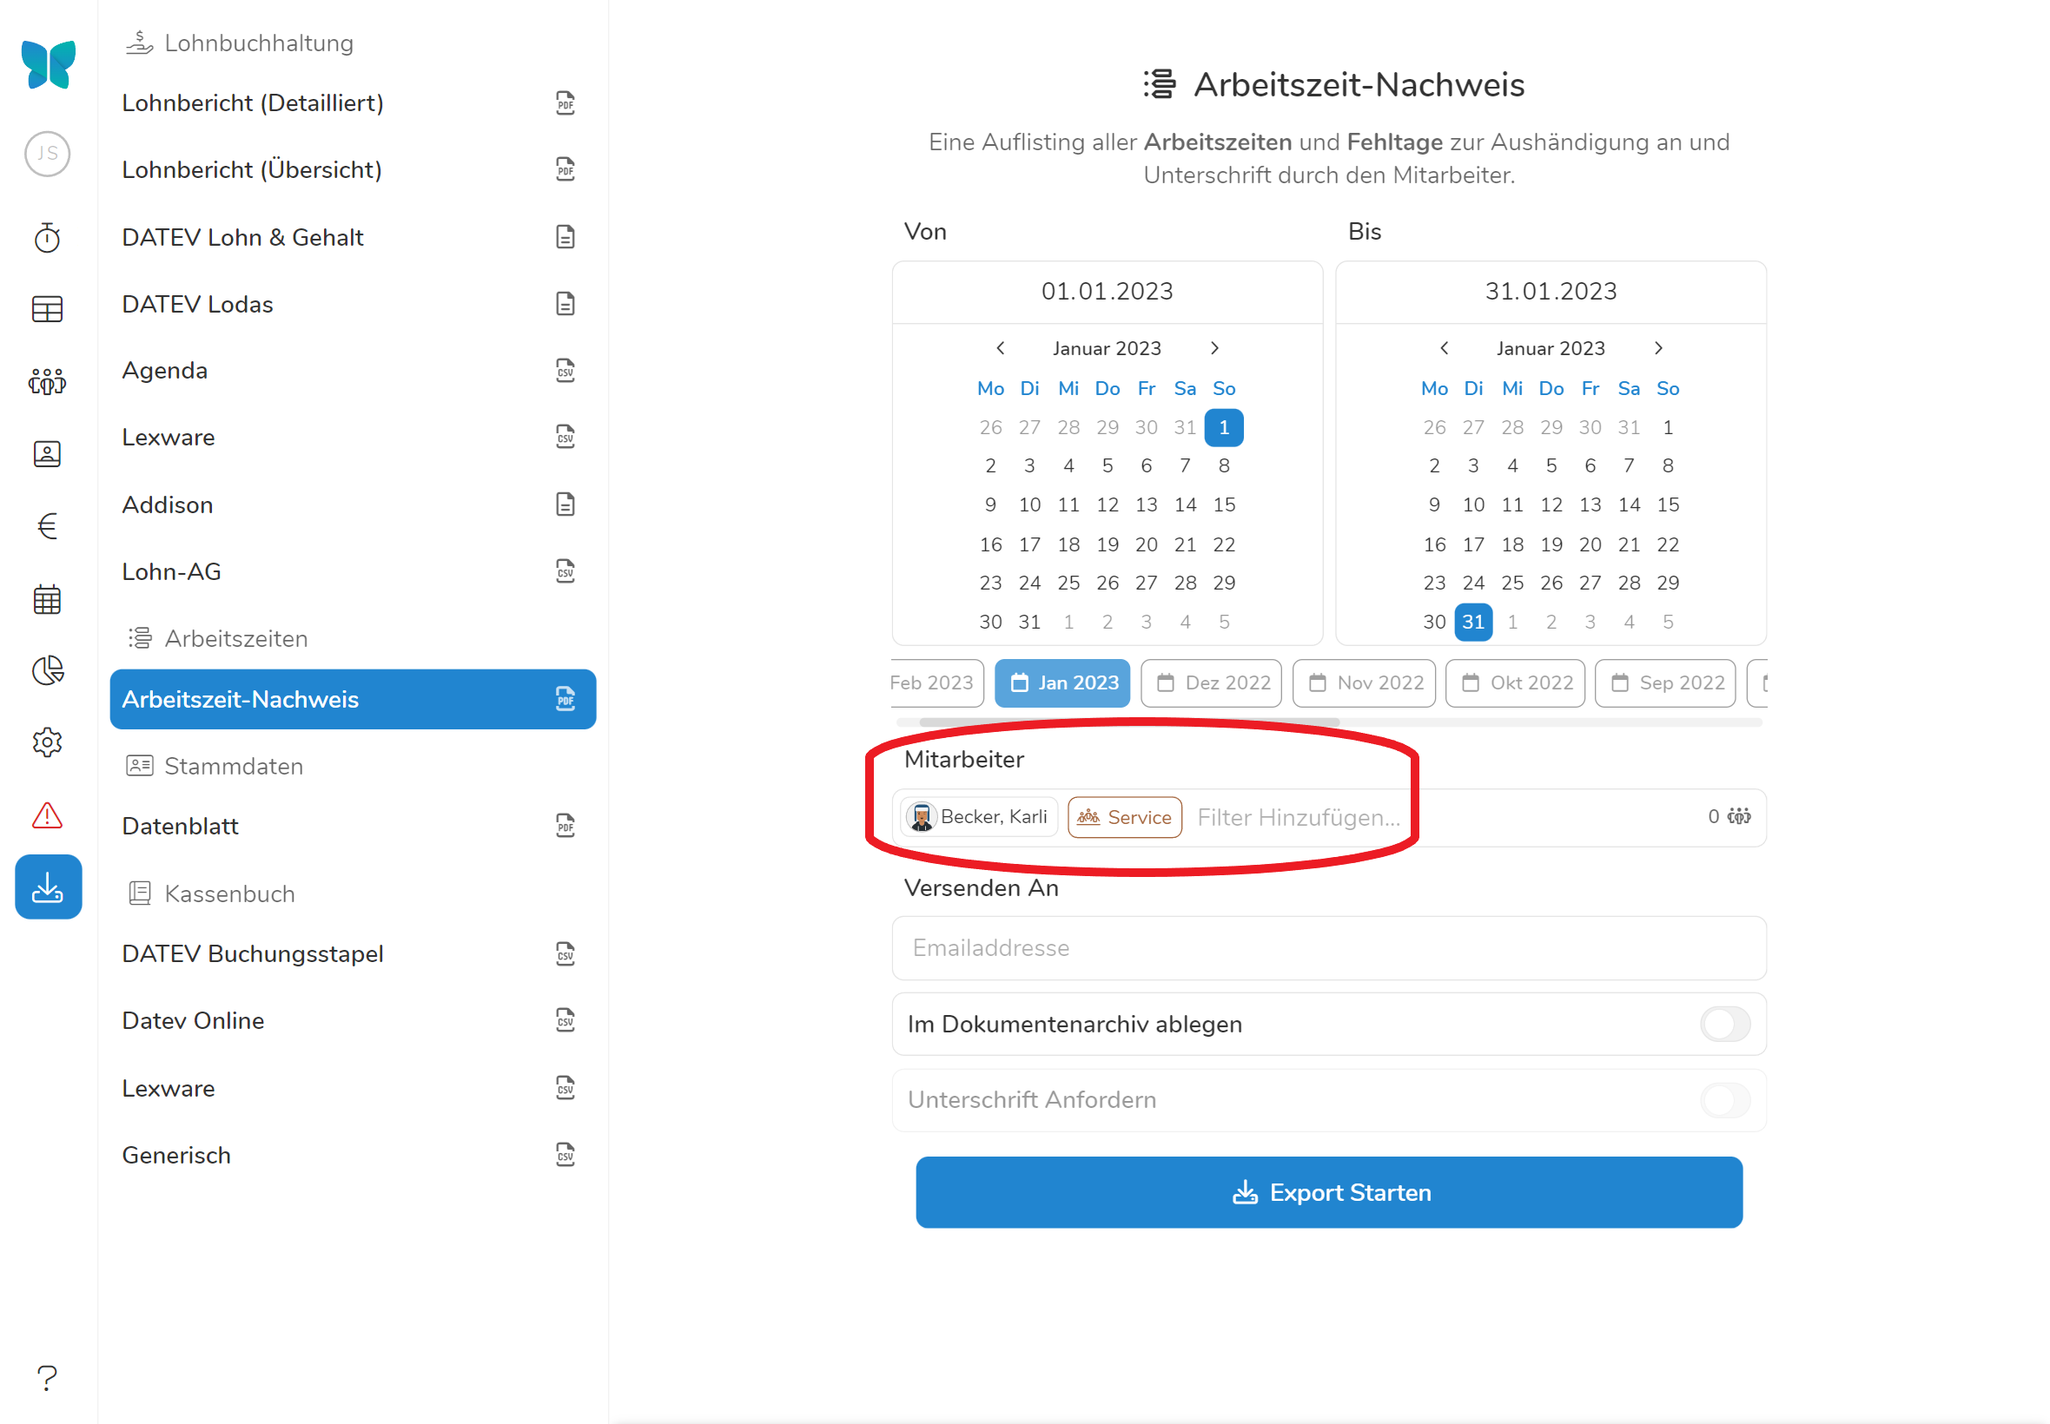
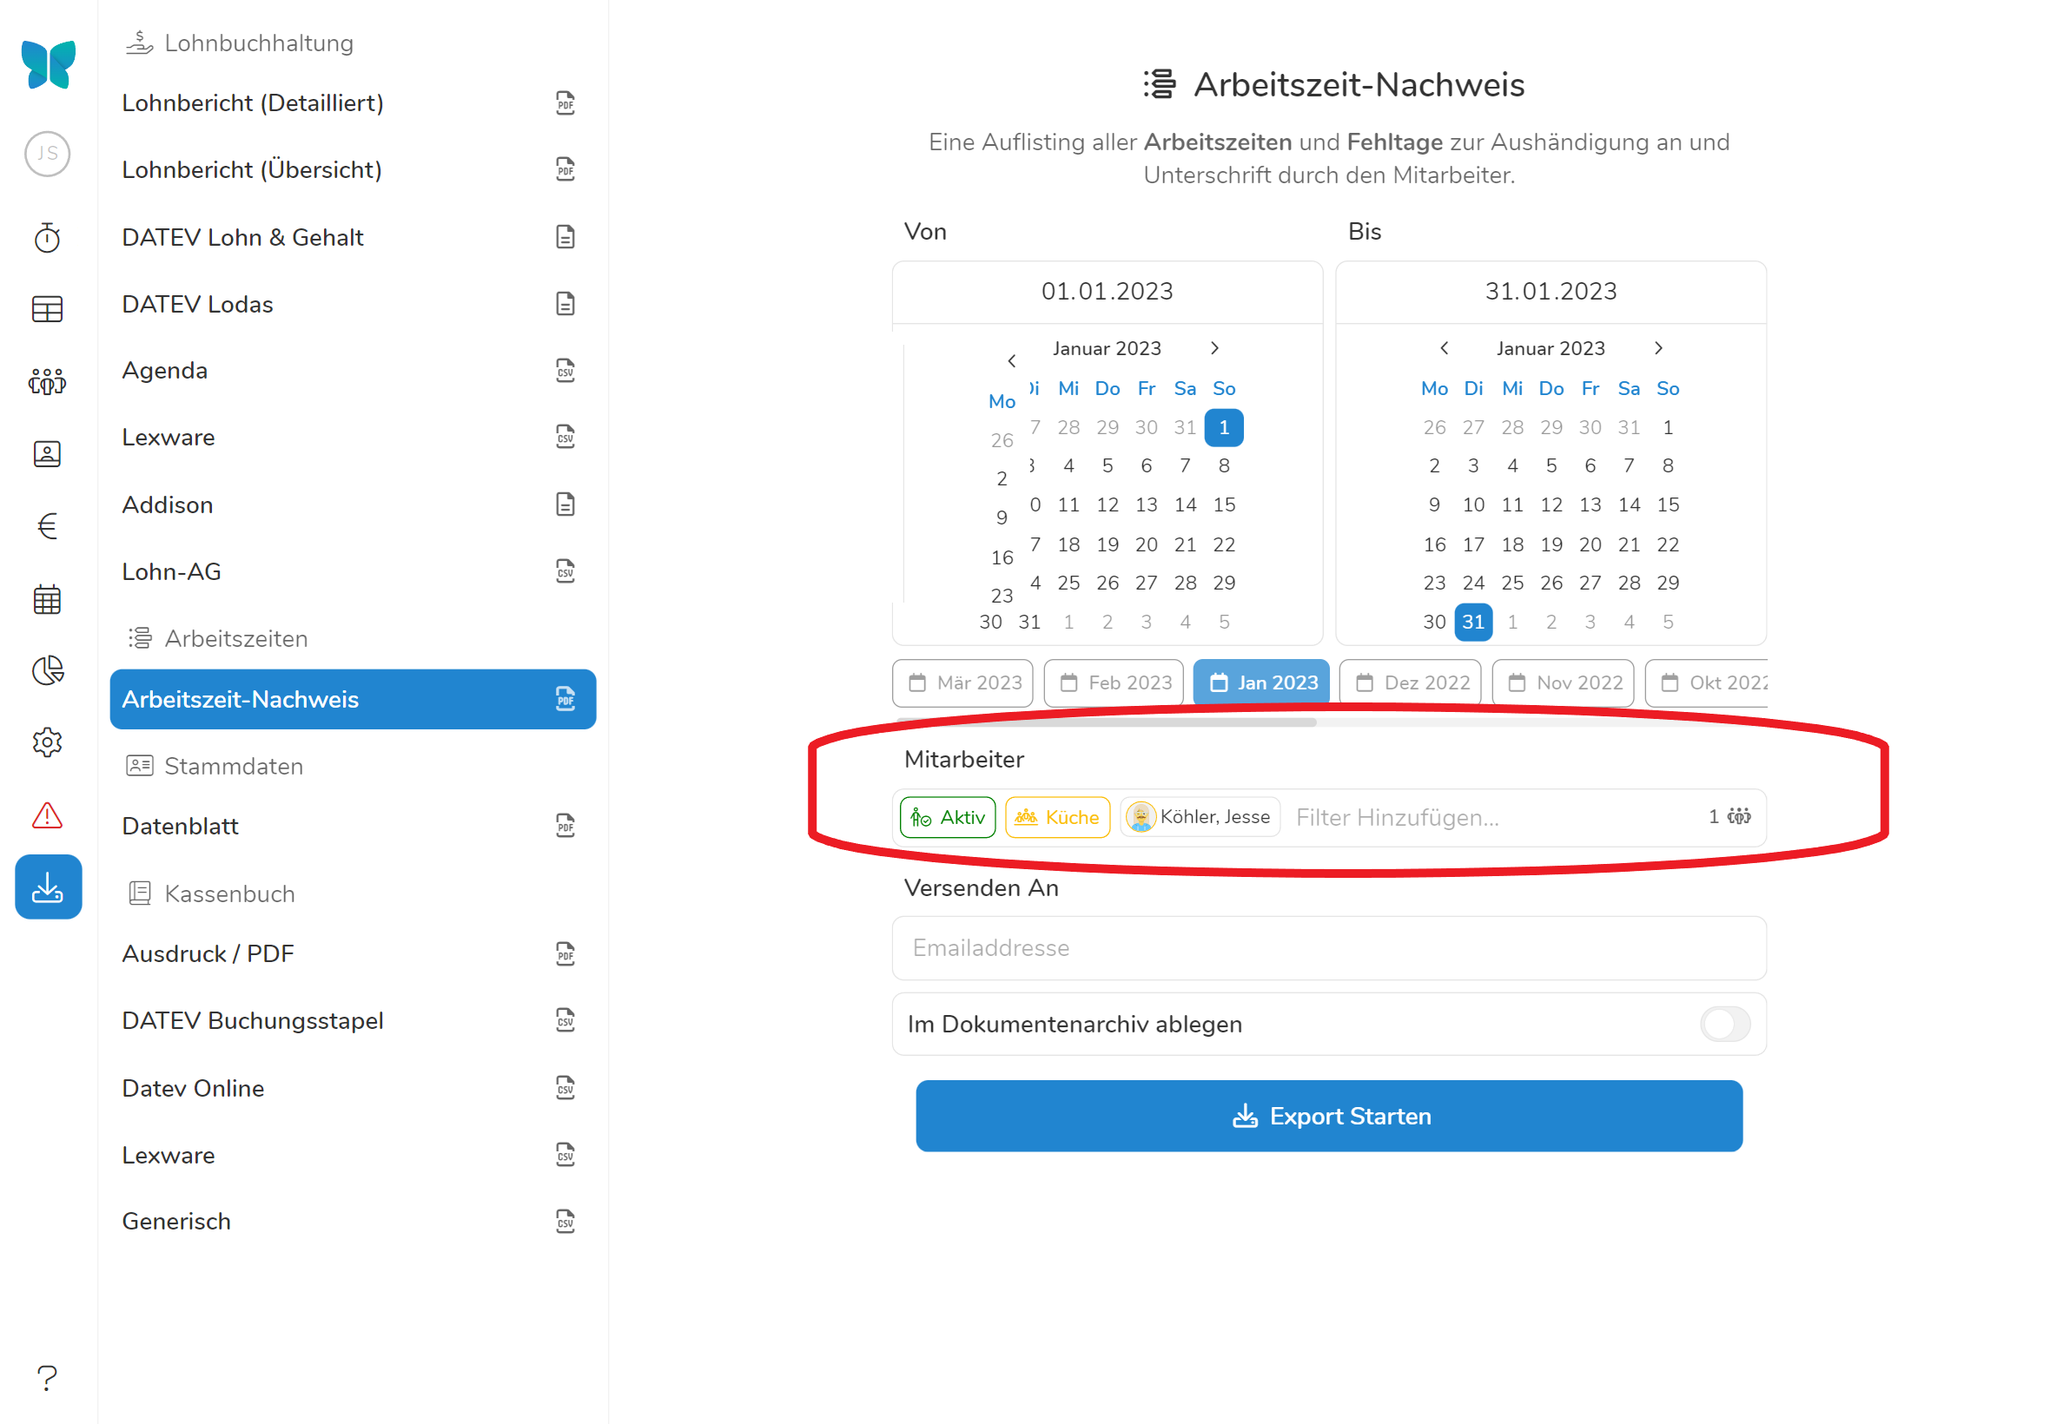
Überarbeitet

diff --git a/hilfe/handbuch/datenexport/index.md b/hilfe/handbuch/datenexport/index.md
@@ -2,51 +2,110 @@
 layout: layouts/hilfe/single.njk
 title: Datenexport
 icon: download
+weigth: 10
 ---
 
-Unter dem Menüpunkt {% button label="Datenexport", icon="download" %} sind alle in Pentacode verfügbaren Datenexporte an einem Ort zusammengefasst. Hier finden Sie verschiede Optionen zum Export von Arbeitszeiten, Lohnberichten und mehr. Dabei geben Ihnen verschiedene Icons neben den Exportfunktionen Auskunft darüber in welchem Format der Export stattfindet:
+Unter dem Menüpunkt {% button label="Datenexport", icon="download" %} sind alle in Pentacode verfügbaren Datenexporte an einem Ort zusammengefasst. Hier finden Sie verschiede Optionen zum Export von Arbeitszeiten, Lohnberichten und mehr.
+
+> **In den verschiedenen Bereichen von Pentacode finden Sie öfters das {%icon "download"%}-Symbol, dieses verweist Sie stets in den hier beschriebenen Reiter.**
+
+## Exportformat
+
+Sie können über den {% button label="Datenexport", icon="download" %}-Reiter verschiedene Dateien mit unterschiedlichen Inhalten exportieren. Je nach Inhalt und Zweck werden die Dateien dabei in unterschiedlichem Dateienformat exportiert, die verschiedenen Icons neben der Exportfunktion geben dabei Auskunft über das Format:
 
 - {% icon "file-pdf" %} Der Export findet in ein PDF-Format statt.
 - {% icon "file-text" %} Der Export findet als Textdatei statt, die extern eingelesen werden muss.
 - {% icon "file-csv" %} Der Export findet in ein CSV-Format statt. 
 
-> In den verschiedenen Bereichen von Pentacode finden Sie öfters das {%icon "download"%}**-Symbol**, dieses verweist Sie stets in den hier beschriebenen Reiter.
-
 ## Lohnbuchhaltung
 
-Hier finden Sie alle Exportoptionen, die der Lohnvorbereitung und -dokumentation dienen.  
+Hier finden Sie alle Exportoptionen, die der Lohnvorbereitung und -dokumentation dienen. Die verschiedenen Optionen umfassen dabei: 
 
-### Lohnbericht Übersicht
+- *Lohnbericht (Übersicht):* In der Lohnbericht-Übersicht sind die Arbeitsstunden und -tage, sowie Zuschlagsstunden, Mitarbeiteressen und das aktuelle Gehalt in einer tabellarischen Ansicht zusammengefasst. Dieser Ausdruck ist vor allem für die Übermittlung an Ihr Lohnbüro gut geeignet und dient als Alternative zum direkten Export/Import in Ihr Lohnbuchhaltungs-Programm.
 
-In der Lohnbericht-Übersicht sind die Arbeitsstunden und -tage, sowie Zuschlagsstunden, Mitarbeiteressen und das aktuelle Gehalt in einer tabellarischen Ansicht zusammengefasst. Dieser Ausdruck ist vor allem für die Übermittlung an Ihr Lohnbüro gut geeignet und dient als Alternative zum direkten Export/Import in Ihr Lohnbuchhaltungs-Programm.
-Wählen Sie dazu unter **Lohnbericht (Übersicht)** den gewünschten Zeitraum aus. Unter **Mitarbeiter** können Sie nun auswählen für wen Sie die Lohnberichtübersicht erstellen wollen - dabei können Sie ganze Abteilungen oder einzelne Mitarbeiter auswählen. Wählen Sie eine **Abteilung und einen Mitarbeiter, werden Ihnen nur die Lohndaten der Schichten des Mitarbeiters in dieser Abteilung angezeigt**.
+- *Lohnabrechnung (Detailliert):* Die detaillierte Lohnübersicht fasst die Inhalte des Lohnberichts mit allen Arbeits- und Abwesenheitszeiten, sowie Änderungen am Vertrag sowie dem Arbeitszeitkonto zusammen. **So haben Sie in einem Dokument alle relevanten Lohn- und Bewegungsdaten zusammengefasst!**
 
-{% figure caption="Hier Exportieren wir die Lohnberichte aller aktiven Servicekräfte - die Nummer neben den Abteilung zeigt Ihnen die Anzahl der erfassten Mitarbeiter." %}
+- *Export in Buchhaltungsprogramme:* Neben den Berichten in PDF-Form können Sie lohnabrechnungsrelevante Bewegungsdaten auch in verschiedene Lohnbuchhaltungsprogramme exportieren. 
+Aktuell unterstützte Formate sind:
+    - Agenda
+    - Datev Lodas
+    - Datev Lohn & Gehalt
+    - Addison
+    - Lexware
+    - LohnAG
+
+## Arbeitszeitennachweis
+
+Unter {% button label="**Arbeitszeiten-Nachweis**" %} werden alle geleisteten Schichten für die [ausgewählten Mitarbeiter](#mitarbeiterfilter) im [ausgewählten Zeitraum](#zeitraum) mit Pausen und Gesamtdauer, sowie der Stand des Arbeitszeitkontos aufgeführt. Der Arbeitszeitennachweis ist besonders dafür sinnvoll, die Arbeitszeiten durch den Mitarbeiter [gegenzeichnen zu lassen](#unterschrift-anfordern) um Dokumentationsfehler frühzeitig aufzudecken und im Falle einer Prüfung die Bewegungsdaten der Mitarbeiter vorlegen zu können. 
+
+## Stammdatenblatt
+
+Unter {% button label="**Datenblatt**" %} werden alle unter [Stammdaten](/hilfe/handbuch/mitarbeiter/stammdaten/) aufgeführten Daten des Mitarbeiters auf einer übersichtlichen PDF-Seite aufgeführt. 
+Die kann nützlich sein um Mitarbeiterdaten zu übertragen - **achten Sie dabei aber immer darauf, dass es sich hierbei um sensible Daten handelt!**
+
+## Kassenbuch
+
+Auf die gleiche Art und Weise wie die Lohn- und Mitarbeiterdaten können Sie auch die Inhalte des Kassenbuchs übertragen. Dies dient dem einfachen Export des in Pentacodes geführten Kassenbuch in die Lohnbuchhaltungssoftware ihrer Wahl. Die verschiedenen Formate, die Ihnen zur Verfügung stehen umfassen neben einem einfachen Ausdruck als PDF:
+
+- DATEV Buchungsstapel
+- DATEV online
+- Lexware
+- Generisch (Alle Kasssenbucheinträge als standardmäßige CSV-Datei für den Import in verschiedene Programme)
+
+## Exportoptionen
+
+Nachdem Sie [das gewünschte Exportformat](#exportformat) ausgewählt haben, können Sie durch weitere Optionen den Export personalisieren. 
+
+## Zeitraum
+
+Im vorgegebenen Kalender können Sie auf der linken Seite das Anfangsdatum und auf der rechten Seite das Enddatum des Zeitraums auswählen, für den die Dateien exportiert werden sollen. Sollten Sie einen Export für **einen ganzen Monat** erstellen wollen, können Sie diesen aus der Liste vergangener Monate unter dem Kalender auswählen. 
+
+{% figure caption="Wollen Sie den Lohnbericht für den ganzen Februar erstellen oder doch nur für eine Woche? Wählen Sie den gewünschten Zeitraum einfach aus." %}
+<img src="zeitraum.gif" />
+{% endfigure %}
+
+## Mitarbeiterfilter
+
+Im Mitarbeiterfilter können wir auswählen für welche Mitarbeitergruppen wir einen Export erstellen wollen. Dazu können wir über die Filterleiste die gewünschten Mitarbeiter über Abteilungen oder einzeln auswählen. Dabei ist zu beachten, dass Filteroptionen sich **untereinander weiter beschränken.**
+
+Hierzu ein Beispiel: Wir wählen im Filter die Vertragsart 'Festangestellt' und die Abteilung 'Küche' aus. Nun werden nur die Mitarbeiter ausgewählt, die **sowohl festangestellt, als auch in der Küche tätig sind.** Wählen wir nun zusätzlich die Abteilung 'Service', werden alle Festangestellten angezeigt, welche in **Küche, Service oder in beiden Abteilungen tätig sind.**
+
+{% figure caption="Hier etwa exportieren wir die Lohnberichte aller aktiven Servicekräfte - die Nummer neben den Abteilung zeigt Ihnen die Anzahl der erfassten Mitarbeiter." %}
 <img src="lohnbericht_übersicht.webp" />
 {% endfigure %}
 
-### Lohnabrechnung Detailliert
+> **Tipp:** Durch die Auswahl einer Abteilung und eines spezifischen Mitarbeiters werden nur die Arbeitszeiten und Lohndaten exportiert, die dieser Mitarbeiter **innerhalb der gewählten Abteilung** besitzt.
 
-Die detaillierte Lohnübersicht fasst **die Inhalte des Lohnberichts mit allen Arbeits- und Abwesenheitszeiten, sowie Änderungen am Vertrag sowie dem Arbeitszeitkonto zusammen!** So haben Sie in einem Dokument alle relevanten Lohn- und Bewegungsdaten zusammengefasst. 
-Wählen Sie dazu **Lohnbericht (Detailliert)** aus und geben wieder den gewünschten Zeitraum, sowie die Mitarbeiter / Abteilungen ein, für den Sie die detaillierte Lohnübersicht erstellen möchten.
+{% figure caption="Wir werden im Arbeitszeitnachweis nur die Schichten dieses Mitarbeiters in der Abteilung **Küche** sehen." %}
+<img src="mitarbeiter_filter.webp" />
+{% endfigure %}
 
-> Wir empfehlen monatliche Lohnberichte stets durch Anwählen des Buttons [**Im Dokumentenarchiv ablegen**](#im-dokumentenarchiv-ablegen) in Pentacode zu hinterlegen. Zwar können Sie auch jederzeit Lohnberichte vergangener Monate erstellen - **im Falle einer Prüfungen haben Sie so jedoch die Lohnberichte ihrer Mitarbeiter stets geordnet und sofort zur Verfügung**. 
+## Per Email versenden
 
-### Export in Buchhaltungsprogramme
+Bei sämtlichen Exporten steht Ihnen die Option zur Verfügung im Feld **Versenden an...** eine Email-Adresse einzutragen, an die Sie eine Kopie des Exports verschicken wollen. Dies kann bspw. nützlich sein, um ihrer Buchhaltung vereinfacht Lohndaten zukommen zu lassen. 
+**Einmal eingegeben wird die Email Adresse automatisch ausgefüllt und stets eine Kopie sämtlicher Exporte verschickt!**
+-- Option für mehrere Emails
 
-Neben den oben genannten Berichten in PDF-Form können Sie lohnabrechnungsrelevante Bewegungsdaten auch in verschiedene Lohnbuchhaltungsprogramme exportieren. Wählen Sie dazu das gewünschte Format unter **Lohnbuchhaltung** aus und gehen Sie genau so vor, wie bei der normalen Lohnabrechnung.
-Aktuell unterstützte Formate sind:
+## Im Dokumentenarchiv ablegen
 
-- Agenda
-- Datev Lodas
-- Datev Lohn & Gehalt
-- Addison
-- Lexware
-- LohnAG
+Für den Arbeitszeitennachweis sowie den detaillierten Lohnbericht bietet Pentacode Ihnen die Möglichkeit die exportierte Datei zusätzlich im Dokumentenarchiv des Mitarbeiters zu speichern. Wählen Sie dazu die Option {% button label="**Im Dokumentenarchiv ablegen**" %} an. 
 
-#### Fehlermeldungen
+### Kategorie auswählen
 
-Da der korrekte Export in ihr Buchhaltungsprogramm auf einige Daten wie **Personalnummern und Lohnarten** angewiesen ist, werden Sie darauf aufmerksam gemacht, sollten Daten unvollständig sein. Pentacode unterscheidet dabei drei verschiedene Meldungen:
+Sobald Sie **Im Dokumentenarchiv ablegen** angewählt haben, erscheint zusätzlich die Option das Dokument mit einer Kategorie zu versehen. Diese hilft Ihnen die gewünschte Datei schneller ausfindig zu machen. Weitere Informationen zu den Dokumentenkategorien finden Sie [hier](/hilfe/handbuch/einstellungen/dokumente). 
+
+> Sie sollten die gleiche Art von Dokument am besten stets mit der gleichen Kategorie versehen - Also etwa alle Arbeitszeitnachweise mit **'Arbeitszeiten'**. 
+
+### Unterschrift anfordern
+
+Wenn Sie **Im Dokumentenarchiv ablegen** angewählt haben erscheint für Arbeitszeitnachweise zusätzlich die Möglichkeit ihren Mitarbeiter aufzufordern diese gegenzuzeichnen und zu bestätigen. Dieser wird anschließend eine Nachricht in seiner [Mitarbeiterapp](/hilfe/handbuch/mitarbeiter-app/ bekommen welche Ihn auf die Anfrage aufmerksam macht. Einmal unterzeichnet wird das Dokument anschließend so im Dokumentenarchiv des Mitarbeiters hinterlegt. 
+
+> Wir empfehlen Ihnen ihre Mitarbeiter stets dazu aufzufordern den Arbeitszeitennachweis mit einer Unterschrift zu bestätigen - dies gibt Ihnen Sicherheit im Falle einer Prüfung und deckt Missverständnisse frühzeitig auf. Nutzen Sie dazu wie oben beschrieben die Funktion **Unterschrift anfordern**. Dazu muss der Mitarbeiter jedoch einen [Zugang besitzen](/hilfe/handbuch/mitarbeiter/allgemein/)
+
+
+## Fehlermeldungen
+
+Da der korrekte Export in ihr Buchhaltungsprogramm auf einige Daten wie **Personalnummern und Lohnarten** angewiesen ist, werden Sie eventuell darauf aufmerksam gemacht, sollten Daten unvollständig sein. Pentacode unterscheidet dabei drei verschiedene Meldungen:
 
 - {%icon "info-circle"%} Hier werden Ihnen Informationen bspw. zu fehlenden Lohnarten angegeben. Diese können in der Regel übersprungen werden, geben Ihnen aber Hinweise, für welche Mitarbeiter Personaldaten fehlen.
 - {%icon "exclamation-triangle"%} Sind **Warnungen**, die Sie darauf aufmerksam machen, dass der Lohnbericht so nicht von ihrer Lohnbuchhaltung zu verwenden ist. Diese Punkte sollten Sie möglichst beheben.
@@ -56,43 +115,11 @@ Da der korrekte Export in ihr Buchhaltungsprogramm auf einige Daten wie **Person
 <img src="fehlermeldung.webp" />
 {% endfigure %}
 
-> {% icon "info-circle" %} **Hinweis:** Mit der Ausnahme von **LohnAG** erfordert der korrekte Export in Buchhaltungsprogramme immer die Erstellung von **Lohnartensätzen**. Mehr Informationen zur Konfiguration von Lohnarten finden Sie unter [Einstellungen/Buchhaltung](/hilfe/handbuch/einstellungen/buchhaltung#lohnarten).
 
+## Dateien herunterladen und drucken
 
-## Arbeitszeiten Exportieren
+Sobald Sie auf {% button icon="download", label="Export starten" %} klicken, bietet Ihnen Pentacode mehrere Optionen an:
 
-Pentacode bietet Ihnen einige Optionen, die Arbeitszeiten einzelner Mitarbeiter oder ganzer Abteilungen zu exportieren, sei es für Archivierungszwecke, zur Überprüfung durch den Mitarbeiter oder für die Übermittlung an die Lohnbuchhaltung.
-
-### Nachweis erstellen
-
-Um den Arbeitszeitennachweis zu erstellen navigieren Sie in den Reiter **Datenexport** und klicken auf {% button label="Arbeitszeit-Nachweis" %}. Wählen Sie nun im Kalender erst einmal den Zeitraum aus, für den Sie den Nachweis erstellen wollen. Soll es ein **Monatsnachweis** sein, können Sie auch gleich einen ganzen Monat unter dem Kalender auswählen. 
-Wählen Sie nun unter **Mitarbeiter** aus, für wen Sie den Nachweis erstellen wollen. Sie können dabei alle Mitarbeiter, bestimmte Anstellungsverhältnisse, ganze Abteilungen oder einzelne Mitarbeiter auswählen. Wenn Sie **eine Abteilung und einen Mitarbeiter auswählen, werden nur die Arbeitszeiten des Mitarbeiters in dieser Abteilung exportiert!**
-
-{% figure caption="Wir werden im Arbeitszeitnachweis nur die Schichten dieses Mitarbeiters in der Abteilung **Service** sehen." %}
-<img src="mitarbeiter_filter.webp" />
-{% endfigure %}
-
-**Im Dokumentenarchiv ablegen** sichert eine Kopie des Arbeitszeitennachweises im Dokumentenarchiv des Mitarbeiters und gewährt diesem auch Zugriff darauf. So, dass mit dem Anwählen von **Unterschrift anfordern** der Mitarbeiter den Nachweis auch direkt bestätigen kann, und Ihnen die Absicherung gibt - ganz ohne das Dokument jemals audrucken zu müssen. 
-
-> Wir empfehlen Ihnen ihre Mitarbeiter stets dazu aufzufordern den Arbeitszeitennachweis mit einer Unterschrift zu bestätigen - dies gibt Ihnen Sicherheit im Falle einer Prüfung und deckt Missverständnisse frühzeitig auf. Nutzen Sie dazu wie oben beschrieben die Funktion **Unterschrift anfordern**. Davor müssen Sie jedoch dem Mitarbeiter Zugriff auf sein Dokumentenarchiv gewähren - [hier](/hilfe/handbuch/mitarbeiter/zugaenge-rechte/#berechtigungen-übersicht) können Sie diese Einstellung treffen. 
-
-Klicken Sie nun auf {% button icon="download", lable ="Export starten" %} werden Ihnen die Arbeitszeitnachweise zum **herunterladen bereitgestellt**. Sollten Sie mehrere Mitarbeiter ausgewählt haben, finden Sie diese als einzelne Dokumente in einem Ordner. 
-
-## Stammdaten exportieren
-
-Im Datenexportmenü können Sie auch eine übersichtliche Kopie der Stammdaten ihrer Mitarbeiter anfordern. Klicken Sie dazu auf {% button label="Datenblatt" %} und wählen wieder die Abteilungen oder einzelnen Mitarbeiter deren Daten Sie exportieren möchten. Mit einem Klick auf {% button label="**Export starten**" %} stehen Ihnen die Daten dann wieder zum Download bereit. 
-
-## Kassenbuch
-
-Auf die gleiche Art und Weise wie die Lohn- und Mitarbeiterdaten können Sie auch das Kassenbuch vorgefertigt in ihr Buchhaltungsprogramm exportieren. Wählen Sie dazu erst unter **Kassenbuch** das gewünschte Format und anschließend den **gewünschten Zeitraum und Standort aus**. Die verschiedenen Formate, die Ihnen zur Verfügung stehen umfassen neben einem einfachen Ausdruck als PDF:
-
-- DATEV Buchungsstapel
-- DATEV online
-- Lexware
-- Generisch (Alle Kasssenbucheinträge als standardmäßige CSV-Datei für den Import in verschiedene Programme)
-
-## Per Email versenden
-
-Bei sämtlichen Exporten steht Ihnen die Option zur Verfügung im Feld **Versenden an...** eine Email-Adresse einzutragen, an die Sie eine Kopie des Exports verschicken wollen. Dies kann bspw. nützlich sein, um ihrer Buchhaltung vereinfacht Lohndaten zukommen zu lassen. 
-**Einmal eingegeben wird die Email Adresse automatisch ausgefüllt und stets eine Kopie verschickt!**
--- Option für mehrere Emails
+- {% icon "eye" %} *Öffnen* Hier wird eine Vorschau der Datei in ihrem Browser oder in Excel geöffnet.
+- {% icon "download" %} *Downloaden* Sie laden die Dateien zusammengefasst in einem Ordner herunter. Dabei wir für die Nachweise und Berichte jedes Mitarbeiters eine eigene Datei innerhalb des Ordners erstellt.
+- {% icon "print" %} *Drucken* Die Durckvorschau wird geöffnet, mit einem für den Druck optimierten Format der Datei. 
